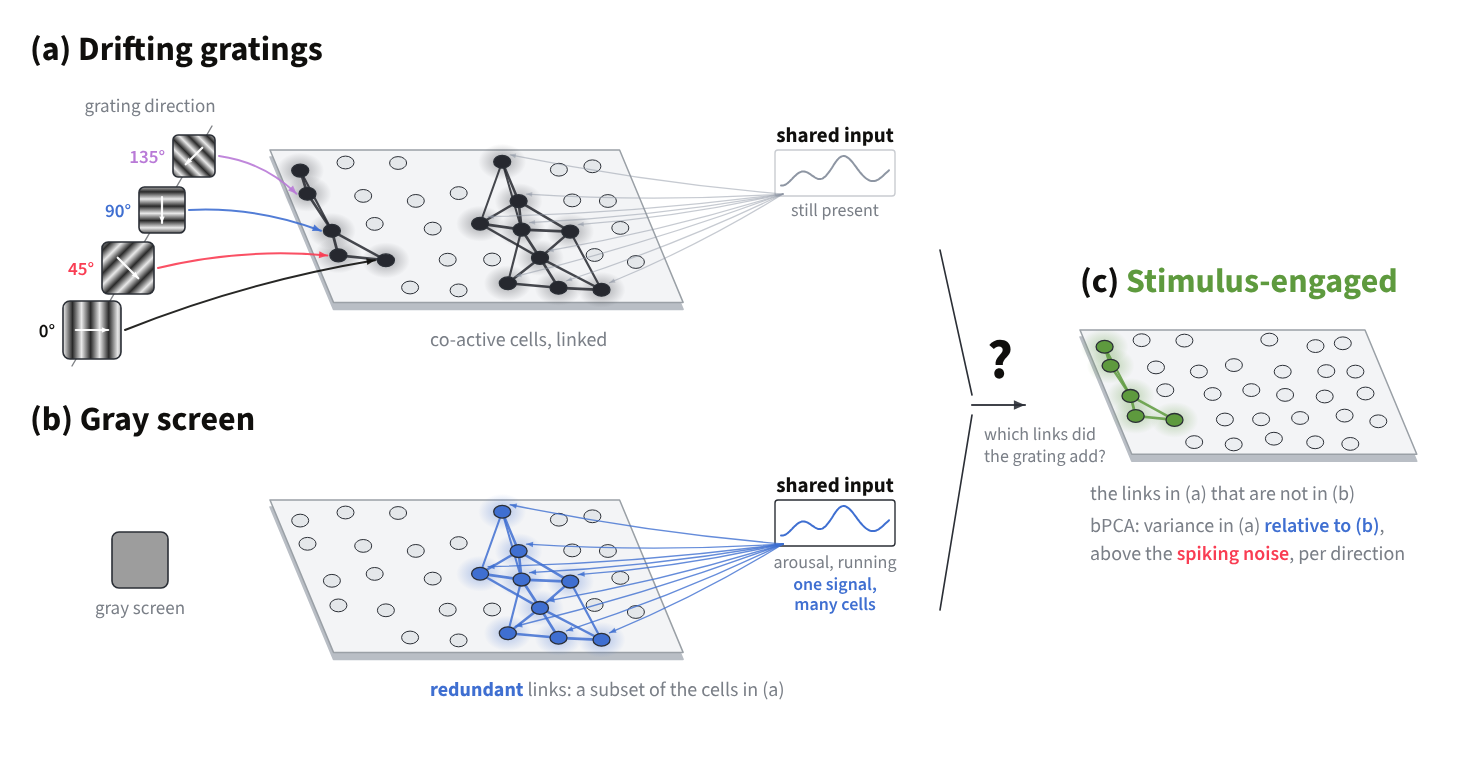
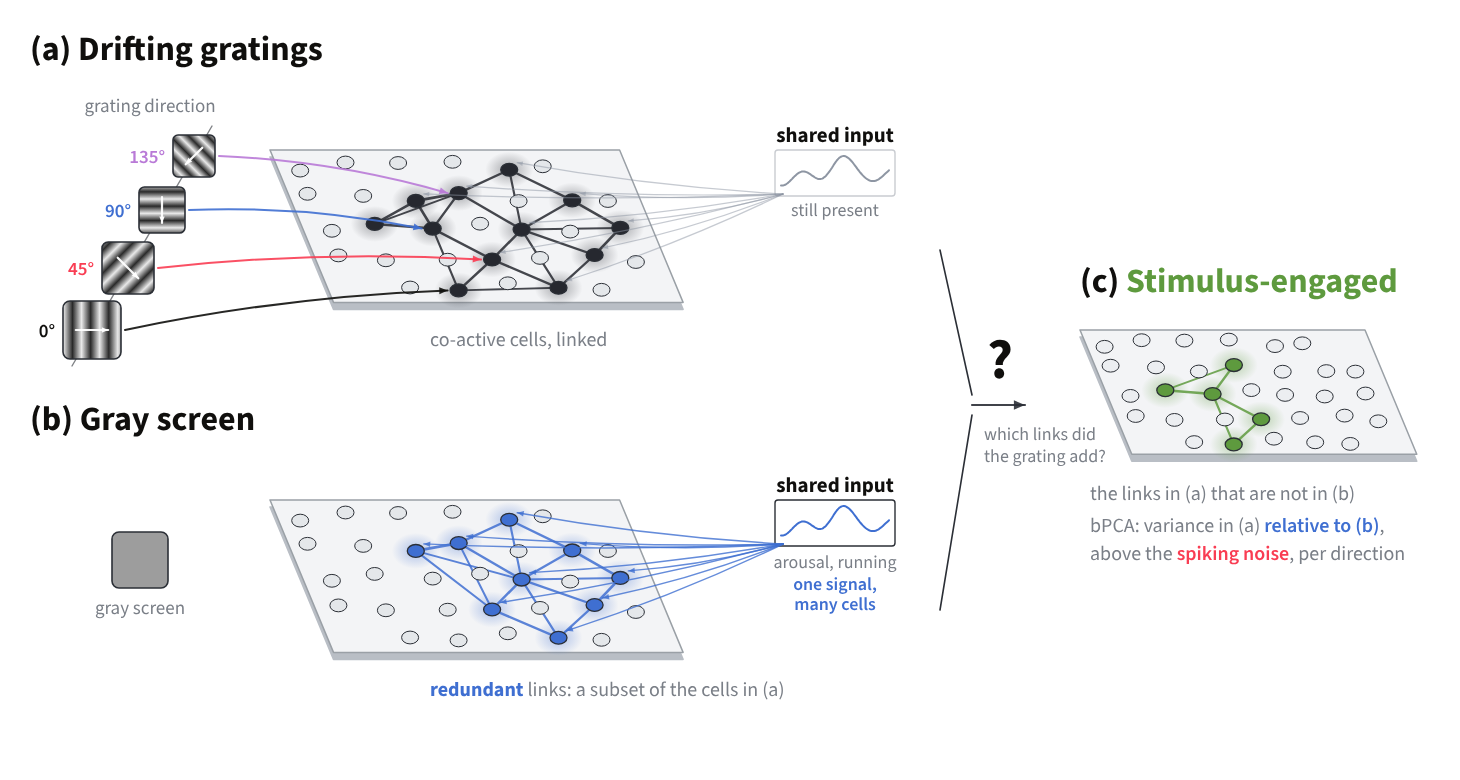
Interleave the spontaneous and stimulus groups in the construction opening (1f)
The two groups now overlap on the sheet and share two cells, and (a) links
the whole co-active set, so the lit network reads as one thing. Panel (c)
keeps only the links of (a) that are absent from (b).

Claude-Session: https://claude.ai/code/session_01KMq3BLSuorwn4xBeF9qmhV

Changed region(s): [[0.0925, 0.1846, 0.524, 0.4308], [0.2774, 0.6462, 0.524, 0.8308], [0.7397, 0.4308, 0.9247, 0.5846]]

diff --git a/drafts/opening/make_1f.py b/drafts/opening/make_1f.py
@@ -130,19 +130,19 @@ def option1f():
     rng = np.random.default_rng(12)
     s = SVG()
     # ---- the population: a jittered grid of 36 cells on a 380 x 230 sheet -----------------------
-    cells = []
+    cells, index = [], {}
     for j in range(5):
         for i in range(7):
-            if (i, j) in ((3, 0), (6, 4), (0, 4)):     # leave a few gaps so it is not a lattice
+            if (i, j) in ((6, 0), (0, 4), (6, 4)):     # leave a few gaps so it is not a lattice
                 continue
             u = 28 + i * 54 + rng.uniform(-9, 9)
             v = 24 + j * 46 + rng.uniform(-8, 8)
+            index[(i, j)] = len(cells)
             cells.append((u, v))
-    order_u = sorted(range(len(cells)), key=lambda n: cells[n][0])
-    stim = [n for n in order_u[:11] if 20 < cells[n][1] < 215][:5]            # five cells at the left
-    spont = [n for n in order_u[-16:] if cells[n][1] > 10][:9]                 # nine cells at the right
-    by_row = sorted(stim, key=lambda n: -cells[n][1])                             # lowest on the sheet first
-    pref = dict(zip((0, 45, 90, 135), by_row[:4]))                               # bottom grating -> lowest cell: no crossings
+    # The two groups interleave and share two cells, so the lit set in (a) reads as one network.
+    spont = [index[c] for c in ((2, 1), (3, 1), (4, 0), (4, 2), (5, 1), (5, 3), (3, 3), (4, 4), (6, 2))]
+    stim = [index[c] for c in ((1, 2), (2, 2), (2, 4), (3, 1), (3, 3))]      # (3,1) and (3,3) are in both
+    pref = {0: index[(2, 4)], 45: index[(3, 3)], 90: index[(2, 2)], 135: index[(3, 1)]}   # bottom grating -> lowest cell
     k = 0.92
     sig = smooth_noise(90, rng, cutoff=0.1)
     sig = sig / np.abs(sig).max()
@@ -150,7 +150,7 @@ def option1f():
     # ---- (a) drifting gratings ----------------------------------------------------------------
     s.rich(30, 60, [("(a)", {"weight": 700}), ("  Drifting gratings", {"weight": 700})], size=34)
     ox, oy = 270, 150
-    e_a = knn_edges(cells, stim, 2) + knn_edges(cells, spont, 3)
+    e_a = knn_edges(cells, sorted(set(stim) | set(spont)), 3)        # one co-active network, links crossing the groups
     P = sheet(s, ox, oy, k, cells, set(stim) | set(spont), DARK, e_a, "a")
     # the line of directions: four patches receding along a slanted line
     line = [(92, 330), (128, 268), (162, 210), (194, 156)]
@@ -196,7 +196,8 @@ def option1f():
 
     # ---- (c) stimulus-engaged -----------------------------------------------------------------
     s.rich(1080, 292, [("(c)", {"weight": 700}), ("  Stimulus-engaged", {"weight": 700, "fill": GREEN})], size=34)
-    e_c = knn_edges(cells, stim, 2)
+    in_b = {(i, j) for i, j, _ in knn_edges(cells, spont, 3)}
+    e_c = [e for e in knn_edges(cells, stim, 2) if (e[0], e[1]) not in in_b]   # links in (a) that are not in (b)
     sheet(s, 1080, 330, 0.75, cells, set(stim), GREEN, e_c, "c", dim_inactive=True)
     s.text(1090, 500, "the links in (a) that are not in (b)", size=20, fill=GREY)
     s.rich(1090, 532, [("bPCA: variance in (a) ", {"fill": GREY}), ("relative to (b)", {"fill": BLUE, "weight": 600}), (",", {"fill": GREY})], size=20)

diff --git a/drafts/opening/build_page.py b/drafts/opening/build_page.py
@@ -222,7 +222,7 @@ VARIANTS.append(dict(
     pitch="Which links did the grating add?",
     reads=[
         "Drawn in the conventions of the Cosyne 2025, OHBM 2025 and MiB 2026 posters: the population is an oblique plate with a visible edge (the MiB “population bath”), neurons are small flattened cell glyphs with an ink outline, activity is a soft glow, arrows are thin with small heads in a semantic colour, the stimuli are real-looking grating patches with a drift arrow, the shared input is a trace in a small frame, and the only text inside is a bold panel letter and a few short labels. No grey cards; the poster's grey boxes hold the prose.",
-        "Panel (a): four grating patches recede along a slanted line, the line of directions. Each patch sends a thin arrow in its direction colour onto a sheet of 36 cells and lands on a different cell, so the driven group reads four different points of the line: these cells carry information. A grey “shared input, still present” trace fans faint arrows onto its own group at the right. Co-active cells are linked and all lit cells are drawn in one dark colour, because the recording does not label them.",
+        "Panel (a): four grating patches recede along a slanted line, the line of directions. Each patch sends a thin arrow in its direction colour onto a sheet of 36 cells and lands on a different cell, so the driven group reads four different points of the line: these cells carry information. A grey “shared input, still present” trace fans faint arrows onto its own group, which interleaves with the driven one and shares two cells with it. Co-active cells are linked across the groups, so the twelve lit cells read as one network, drawn in one dark colour, because the recording does not label them.",
         "Panel (b): the gray screen, a plain grey patch where the gratings were. The shared-input trace, now blue, fans nine arrows onto one group of cells. The fan is the redundancy cue, in the shape the MiB mean-field figure uses: one signal, many cells. Their links are blue and they are a subset of the cells lit in (a).",
         "The question-mark arrow asks which links the grating added. Panel (c) answers: the five cells and their links in green on the same sheet, everything else dimmed. The caption says Baseline PCA does the contrast on covariance, relative to (b), after removing the spiking noise.",
     ],

diff --git a/drafts/opening/README.md b/drafts/opening/README.md
@@ -289,9 +289,9 @@ poster's grey boxes hold the prose.
    patch sends a thin arrow in its direction colour onto a sheet of 36 cells and lands on a
    different cell, so the driven group reads four different points of the line: these cells carry
    information about the stimulus. A grey "shared input, still present" trace fans faint arrows onto
-   its own group at the right of the sheet. Co-active cells are linked (each to its nearest co-active
-   neighbours) and all lit cells are drawn in one dark colour, because the recording does not label
-   them.
+   its own group, which interleaves with the driven one and shares two cells with it. Co-active
+   cells are linked (each to its nearest co-active neighbours, across the groups), so the twelve lit
+   cells read as one network, drawn in one dark colour, because the recording does not label them.
 2. Panel (b): the gray screen, a plain grey patch where the gratings were. Nothing drives the
    left of the sheet, but the shared-input trace, now in blue, fans nine arrows onto one group of
    cells. The fan is the redundancy cue, in the shape the MiB mean-field figure uses: one signal,
